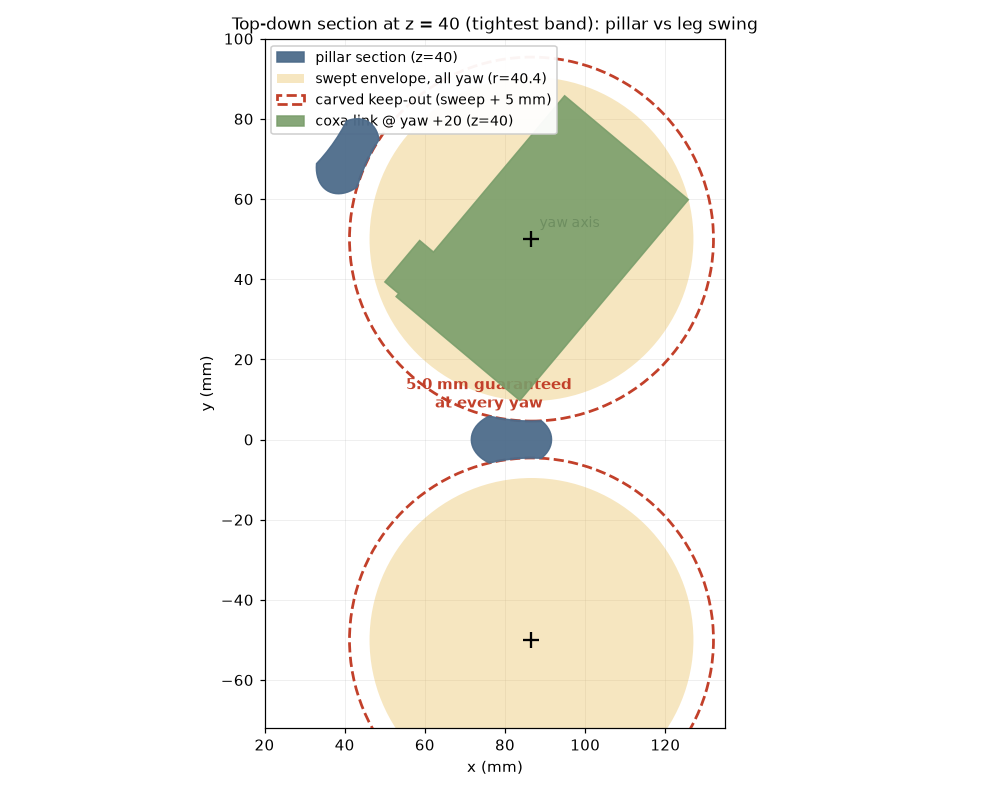
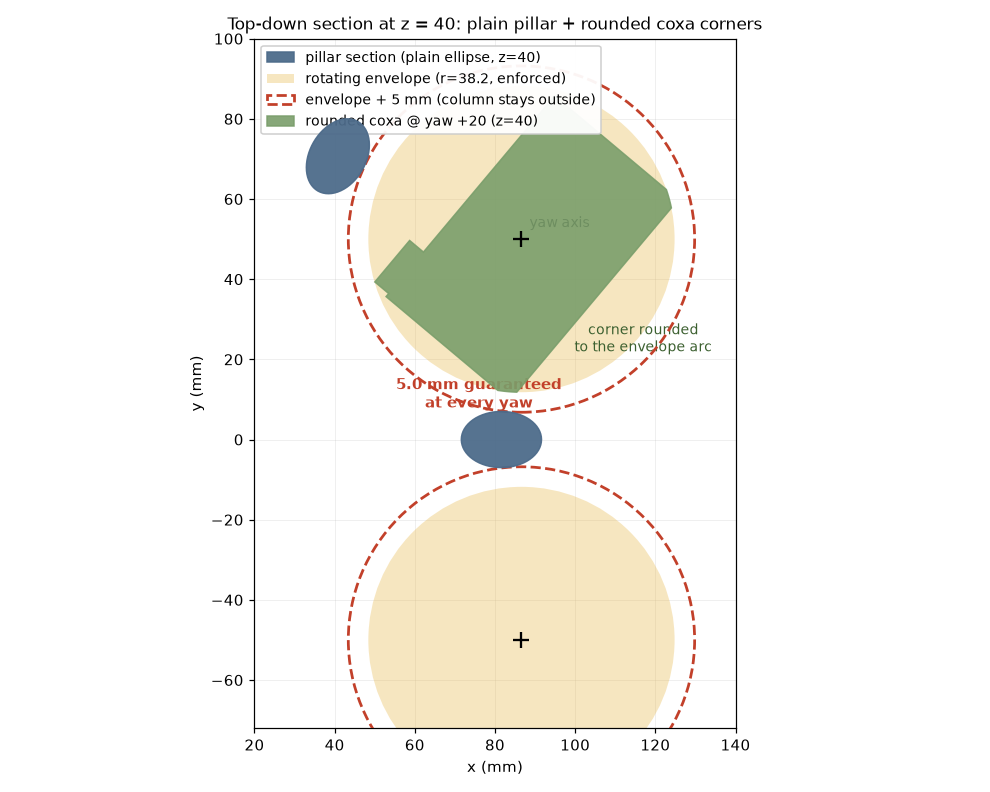
concepts/rigid_hip: round the coxa cradle corners instead of scalloping the pillar
User preference: keep the rim column a plain solid ellipse and put the
clearance in the rotating parts. coxa_link_rounded trims the cradle
corners to a 38.2 mm arc about the yaw axis (max 2.16 mm off two
vertical corner edges; hub/horn/pilots untouched), which alone
guarantees >= 5 mm column clearance at every yaw (measured 5.03,
envelope + distance asserted on rebuild). The coxa becomes the one
production part this variant reprints (x6); scallop constants and
cuts removed.

diff --git a/hexapod_walker/prototype_sts3215/concepts/rigid_hip/make_rigid_hip_variant.py b/hexapod_walker/prototype_sts3215/concepts/rigid_hip/make_rigid_hip_variant.py
@@ -22,10 +22,11 @@ pair.  This variant closes the loop from the TOP:
     pressed on once and never removed; all service unbolts the cap from
     the coxa cradle (both bolts reachable with the plate on) and lifts
     the plate + caps + bearings off as one rigid unit.
-  * ``corner_pillar`` (x6) -- solid elliptical printed columns at the
-    six corner azimuths (rho 81.6, between adjacent rings), with the
-    legs' swept keep-out volume carved out of their flanks (>= 5 mm
-    clearance at every yaw angle by construction), that tie the top
+  * ``corner_pillar`` (x6) -- plain solid elliptical printed columns
+    at the six corner azimuths (rho 81.6, between adjacent rings);
+    >= 5 mm leg clearance at every yaw angle is guaranteed by the
+    rotating parts' ROT_ENVELOPE_R trim (see ``coxa_link_rounded``),
+    not by shaping the column.  They tie the top
     frame to chassis_bottom at the RIM, where each hip moment's force
     couple actually wants to react (push at the bottom tower, pull at
     the top ring) and where torsional leverage is ~4x the old standoff
@@ -36,6 +37,10 @@ pair.  This variant closes the loop from the TOP:
     (drilled through chassis_bottom using the foot as the jig -- a
     bench drill mod, no reprint).  The four central 90 mm standoffs
     remain only as hatch/electronics anchors.
+  * ``coxa_link_rounded`` (x6) -- the production coxa with its
+    servo-cradle corners rounded to the 38.2 mm yaw envelope (max
+    2.16 mm off two vertical wall corners; all interfaces untouched).
+    The one production part this variant reprints.
   * ``centre_wago_block`` -- the pillars claim the corner Wago trays,
     so the power tree consolidates: 4x 5-port 221-415 (two per net,
     jumpered) in one printed press-fit block at the chassis centre,
@@ -169,22 +174,28 @@ PILLAR_OD = 20.0                          # column RADIAL outer diameter
 PILLAR_TAN_SCALE = 0.7                    # ELLIPTICAL section: tangential
                                           # half-axis 7 (a round Phi 20 was
                                           # a measured graze on the coxa
-                                          # sweep; the ellipse is step one,
-                                          # the SCALLOPS below are step two)
-# Swept-keep-out SCALLOPS (user, Aug 24: "worried these columns will
-# bang into the hip servo when it rotates"): measured over a full 360
-# revolution, the rotating assembly's worst reach from its yaw axis is
-# 40.4 mm (coxa cradle arm, z 30..45; the hip SERVO itself never gets
-# within 13.8 mm).  Rather than trust a thin static margin, the column
-# subtracts a vertical cylinder of radius sweep+5 around BOTH flanking
-# yaw axes across the z band where anything rotates -- so >= 5 mm
-# clearance at EVERY yaw angle is guaranteed by construction, and the
-# column keeps its full section everywhere else.  The column is SOLID
-# (no bore): simpler, stiffer at the scalloped waist, ~25 g each.
-PILLAR_SWEEP_R = 40.4                     # measured max rotating reach
-PILLAR_SWEEP_CL = 5.0                     # clearance carved beyond it
-PILLAR_SWEEP_Z = (24.0, 78.0)             # rotating parts live in z 25..76;
-                                          # band padded 1-2 mm each way
+                                          # sweep at 2.9 mm; slimming the
+                                          # tangential axis buys the margin)
+# ROUNDED-CORNER ENVELOPE (user, Aug 24: "round the corners of the
+# servo holder instead of making the pillar a weird shape").  The
+# scalloped column is gone; instead, everything that rotates with a
+# yaw joint is kept inside a 38.2 mm cylinder about its own axis, and
+# the column is a plain solid ellipse.  Axis-to-column-surface is
+# 43.24 mm (measured: 43.24 - 40.36 gave the old 2.88 graze), so a
+# <= 38.2 mm rotating envelope guarantees >= 5 mm clearance at EVERY
+# yaw angle -- same guarantee the scallops gave, now carried by the
+# rotating parts:
+#   * coxa_link_rounded -- the production coxa's servo-cradle corners
+#     reached 40.36 mm; they are rounded back to the envelope arc
+#     (max 2.16 mm off two vertical wall corners, 8 vertices; the
+#     cap-bolt bosses are untouched).  THE COXA IS NOT A STOCK PRINT
+#     in this variant (6 reprints) -- the price of the plain column.
+#   * hip_clamp_cap_rigid already fits (max reach 36.98) -- asserted.
+#   * hip servo: max reach 29.38, COTS, nothing to trim.
+ROT_ENVELOPE_R = 38.2                     # max rotating reach, enforced
+PILLAR_MIN_CL = 5.0                       # guaranteed clearance to column
+ROT_BAND_Z0 = 24.0                        # lowest z where anything rotates
+                                          # outside the (static) tower
 PILLAR_RHO = 81.6                         # centre radius at az 0/60/...:
                                           # midway between the lid-screw
                                           # pilot (76.2) and the dedicated
@@ -460,13 +471,11 @@ def make_chassis_top_rigid() -> trimesh.Trimesh:
 
 def make_corner_pillar() -> trimesh.Trimesh:
     """One rim pillar, modeled in WORLD position at az 0 (instances are
-    placed by 60-deg rotations).  A SOLID elliptical column from the
-    bottom sheet's top face up to PILLAR_TOP_GAP below the frame, with:
+    placed by 60-deg rotations).  A PLAIN SOLID elliptical column from
+    the bottom sheet's top face up to PILLAR_TOP_GAP below the frame
+    (leg clearance is guaranteed by the rotating parts' ROT_ENVELOPE_R
+    trim, not by shaping the column), with:
 
-      * swept-keep-out SCALLOPS: the volume within PILLAR_SWEEP_R +
-        PILLAR_SWEEP_CL of both flanking yaw axes is subtracted over
-        the rotating z band, so >= 5 mm leg clearance holds at every
-        yaw angle by construction;
       * two Phi 2.5 self-tap pilots in the top face (insert-ready):
         the shared lid screw (rho 76.2) and the dedicated frame screw
         (rho 87);
@@ -500,16 +509,7 @@ def make_corner_pillar() -> trimesh.Trimesh:
     tab.apply_translation([PILLAR_RHO - PILLAR_OD / 2.0 - 2.0, 0.0,
                            PILLAR_BOT_Z + PILLAR_FOOT_T / 2.0])
     body = _union([col, bar, tab])
-    ax = APOTHEM * np.cos(np.pi / 6.0)
-    ay = APOTHEM * np.sin(np.pi / 6.0)
     cuts = [
-        # swept-keep-out scallops around both flanking yaw axes
-        _cyl_z(PILLAR_SWEEP_R + PILLAR_SWEEP_CL,
-               PILLAR_SWEEP_Z[0], PILLAR_SWEEP_Z[1],
-               x=ax, y=+ay, sections=128),
-        _cyl_z(PILLAR_SWEEP_R + PILLAR_SWEEP_CL,
-               PILLAR_SWEEP_Z[0], PILLAR_SWEEP_Z[1],
-               x=ax, y=-ay, sections=128),
         # top pilots: shared lid screw + dedicated frame screw
         _cyl_z(PILOT_OD / 2.0, top_z - 8.0, top_z + 1.0,
                x=HATCH_SCREW_RHO, y=0.0, sections=32),
@@ -526,6 +526,19 @@ def make_corner_pillar() -> trimesh.Trimesh:
                            x=PILLAR_BAR_HOLE_X,
                            y=sy * PILLAR_BAR_HOLE_Y, sections=32))
     return _diff(body, cuts)
+
+
+def make_coxa_link_rounded() -> trimesh.Trimesh:
+    """The production coxa with its servo-cradle corners rounded to the
+    ROT_ENVELOPE_R arc about its own yaw axis (the coxa local z axis
+    through the origin).  Removes at most 2.16 mm from two vertical
+    wall corners that used to reach 40.36 mm; every interface (hub,
+    horn drive, cradle pilots, cap seat) is untouched.  This makes the
+    coxa a VARIANT print (6x) -- the trade for a plain rim column."""
+    coxa = hp.make_coxa_link_part()
+    z0, z1 = coxa.bounds[0][2] - 1.0, coxa.bounds[1][2] + 1.0
+    keep = _cyl_z(ROT_ENVELOPE_R, z0, z1, sections=256)
+    return trimesh.boolean.intersection([coxa, keep], engine="manifold")
 
 
 def _pillar_meshes(meshes: dict) -> list[trimesh.Trimesh]:
@@ -661,9 +674,11 @@ MESH_FILES = {
     "top_hatch_rigid": (make_top_hatch_rigid, "top_hatch_rigid.stl"),
     "corner_pillar": (make_corner_pillar, "corner_pillar.stl"),
     "centre_wago_block": (make_centre_wago_block, "centre_wago_block.stl"),
+    # VARIANT reprint of a production part: cradle corners rounded to
+    # the 38.2 mm yaw envelope so the plain rim columns clear by 5 mm.
+    "coxa_link": (make_coxa_link_rounded, "coxa_link_rounded.stl"),
     # Unchanged production prints (print from the MAIN stl_prototype/).
     "chassis_bottom": (hp.make_chassis_bottom, "chassis_bottom.stl"),
-    "coxa_link": (hp.make_coxa_link_part, "coxa_link.stl"),
     "femur_link": (hp.make_femur_link_part, "femur_link.stl"),
     "tibia_knee_yoke": (hp.make_tibia_knee_yoke, "tibia_knee_yoke.stl"),
     "foot_boot": (hp.make_foot_boot, "foot_boot.stl"),
@@ -686,7 +701,7 @@ MESH_FILES = {
 }
 ALWAYS_REBUILD = {"hip_clamp_cap_rigid", "chassis_top_rigid",
                   "top_hatch_rigid", "corner_pillar", "centre_wago_block",
-                  "bearing_6805"}
+                  "coxa_link", "bearing_6805"}
 
 
 def build_meshes() -> dict[str, trimesh.Trimesh]:
@@ -854,9 +869,21 @@ def check_pillars(meshes: dict[str, trimesh.Trimesh]) -> None:
                 v = _inter_vol(placed[j], m)
                 assert v < 1e-6, \
                     f"yaw {yaw:+g}: {key} hits pillar az{j * 60} ({v:.2f} mm3)"
-    # QUANTITATIVE margin (user, Aug 24): not just non-colliding --
-    # assert the measured distance stays >= the carved clearance minus
-    # a small numerical allowance, across the operating range.
+    # ROTATING ENVELOPE (user, Aug 24: round the parts, not the pillar)
+    # -- every rotating part must fit the 38.2 mm cylinder about its
+    # own yaw axis; that alone guarantees the column clearance.
+    r_coxa = float(np.linalg.norm(
+        meshes["coxa_link"].vertices[:, :2], axis=1).max())
+    assert r_coxa <= ROT_ENVELOPE_R + 0.05, \
+        f"rounded coxa reaches {r_coxa:.2f} > envelope {ROT_ENVELOPE_R}"
+    vc = meshes["hip_clamp_cap_rigid"].vertices
+    r_cap = float(np.hypot(vc[:, 0], vc[:, 2] - AXIS_Z).max())
+    assert r_cap <= ROT_ENVELOPE_R + 0.05, \
+        f"hip cap reaches {r_cap:.2f} > envelope {ROT_ENVELOPE_R}"
+
+    # QUANTITATIVE margin: not just non-colliding -- assert the
+    # measured distance stays >= the guaranteed clearance minus a
+    # small numerical allowance, across the operating range.
     from trimesh.proximity import signed_distance
     min_marg = 1e9
     for yaw in (-45.0, -20.0, 0.0, 20.0, 45.0):
@@ -870,10 +897,10 @@ def check_pillars(meshes: dict[str, trimesh.Trimesh]) -> None:
                     continue
                 d = float(-signed_distance(placed[j], m.vertices).max())
                 min_marg = min(min_marg, d)
-    assert min_marg >= PILLAR_SWEEP_CL - 0.5, \
+    assert min_marg >= PILLAR_MIN_CL - 0.25, \
         f"pillar clearance margin dropped to {min_marg:.2f} mm"
-    print(f"  pillars: measured leg clearance >= {min_marg:.2f} mm "
-          f"(carved keep-out: sweep {PILLAR_SWEEP_R:g} + {PILLAR_SWEEP_CL:g})")
+    print(f"  pillars: coxa/cap envelope {r_coxa:.2f}/{r_cap:.2f} <= "
+          f"{ROT_ENVELOPE_R:g}; measured leg clearance >= {min_marg:.2f} mm")
 
     # informational: full hand-spin (servo out) contact scan
     first_contact = None
@@ -944,7 +971,7 @@ def check_wago_block(meshes: dict[str, trimesh.Trimesh]) -> None:
     assert corner_r <= HATCH_OPEN_APO - 3.0, \
         f"block corner r {corner_r:.1f} not under the hatch opening"
     lever_top = PILLAR_BOT_Z + WBLK_FLOOR_T + hp.WAGO5_H + 10.0
-    assert lever_top < PILLAR_SWEEP_Z[0], \
+    assert lever_top < ROT_BAND_Z0, \
         f"open lever top z {lever_top:.1f} enters the rotating band"
 
     # seated nuts: the 0.15 press wedge is the ONLY block contact
@@ -957,7 +984,7 @@ def check_wago_block(meshes: dict[str, trimesh.Trimesh]) -> None:
     print(f"  wago block: {abs(blk.volume) / 1000.0:.1f} cm3, "
           f"4 bays press-fit, corner r {corner_r:.1f} "
           f"under the {HATCH_OPEN_APO:g} mm opening, "
-          f"lever top {lever_top:.1f} < band {PILLAR_SWEEP_Z[0]:g}")
+          f"lever top {lever_top:.1f} < band {ROT_BAND_Z0:g}")
 
 
 def check_hatch(meshes: dict[str, trimesh.Trimesh]) -> None:
@@ -1112,7 +1139,7 @@ COLORS = {
     "centre_wago_block": "#4a90a4", "wago5": "#d9822b",
     "bearing_6805": "#303030",
     "yaw_bearing_upper": "#3a3a3a", "servo_body": "#6b6b6b",
-    "chassis_bottom": "#8a8f98", "coxa_link": "#9aa0a6",
+    "chassis_bottom": "#8a8f98", "coxa_link": "#7ba1d1",
     "femur_link": "#9aa0a6", "tibia_knee_yoke": "#9aa0a6",
     "knee_clamp_cap": "#9aa0a6", "yaw_bearing_cap": "#9aa0a6",
     "yaw_servo_retainer": "#9aa0a6", "foot_boot": "#5a5f66",
@@ -1168,7 +1195,8 @@ def build_scene(meshes, femur_up_limit: float) -> dict:
         knee_pt = (T["femur"] @ np.array([hp.FEMUR_LENGTH, 0.0, 0.0, 1.0]))[:3]
 
         yaw_ids = [
-            inst("coxa_link", f"L{i} coxa_link", T["coxa"], leg=i),
+            inst("coxa_link", f"L{i} coxa_link ROUNDED (NEW)",
+                 T["coxa"], leg=i),
             inst("yaw_bearing_upper", f"L{i} yaw bearing (lower slot EMPTY)",
                  T["coxa"], leg=i),
             inst("yaw_bearing_cap", f"L{i} yaw bearing cap", T["coxa"], leg=i),

diff --git a/hexapod_walker/prototype_sts3215/concepts/rigid_hip/README.md b/hexapod_walker/prototype_sts3215/concepts/rigid_hip/README.md
@@ -23,11 +23,15 @@ servo — is a cantilever.  This variant closes the structure from the top:
   ±24.75) and the Φ40 centre hole, all of which fell inside the
   opening.  The electronics deck mounts on the hatch, so the lid lifts
   out WITH the electronics (tethered by wiring) for bench work.
-* **`corner_pillar`** (print 6): solid scalloped columns at the six corner
-  azimuths tying the frame to chassis_bottom at the RIM — the actual
-  top↔bottom structural connection (see below).  Each stands in a
-  vacated corner Wago tray and doubles as the boss its hatch perimeter
-  screw threads into.
+* **`corner_pillar`** (print 6): plain solid elliptical columns at the
+  six corner azimuths tying the frame to chassis_bottom at the RIM —
+  the actual top↔bottom structural connection (see below).  Each
+  stands in a vacated corner Wago tray and doubles as the boss its
+  hatch perimeter screw threads into.
+* **`coxa_link_rounded`** (print 6): the production coxa with its
+  servo-cradle corners rounded to the 38.2 mm yaw envelope so the
+  plain columns clear the swinging leg by 5 mm at every angle.  The
+  one production part this variant reprints.
 * **`centre_wago_block`** (print 1): the pillars claim the corner Wago
   trays, so the power tree consolidates — 4× 5-port 221-415 (two per
   net, jumpered) in one press-fit block at the chassis centre under
@@ -99,17 +103,23 @@ hatch/electronics anchors only.  The tie is six printed pillars at the
 corner azimuths (rho 81.6, between adjacent legs — the only rim
 territory outside every swing envelope):
 
-* **Column**: solid, elliptical section 20 mm radial × 14 mm
-  tangential, z 2 → 87.95, ~23 g each in PETG.  **The legs' swept
-  keep-out volume is carved out of its flanks**: a vertical cylinder
-  of radius sweep + 5 mm (measured worst rotating reach = 40.4 mm,
-  the coxa cradle arm; the hip servo itself never gets within
-  13.8 mm) is subtracted around both flanking yaw axes over the
-  rotating z band (24–78).  So **≥ 5 mm clearance holds at every yaw
-  angle by construction** — measured 5.03 mm at build time, asserted
-  on every rebuild, and verified clear for a full 360° hand-spin of a
-  disassembled leg.  Everywhere outside that band the column keeps
-  its full section.
+* **Column**: plain solid ellipse, 20 mm radial × 14 mm tangential,
+  z 2 → 87.95, ~26 g each in PETG.  Clearance to the swinging legs is
+  **not** the column's problem: every part that rotates with a yaw
+  joint is kept inside a **38.2 mm envelope** about its own axis (the
+  coxa's cradle corners are rounded to that arc — see
+  `coxa_link_rounded` below; the hip cap already fits at 37.0, the
+  servo at 29.4).  The column surface sits 43.2 mm from each
+  neighbouring axis, so **≥ 5 mm clearance holds at every yaw angle
+  by construction** — measured 5.03 mm at build time, envelope and
+  distance both asserted on every rebuild, verified clear for a full
+  360° hand-spin of a disassembled leg.
+* **`coxa_link_rounded`** (print 6): the production coxa with its two
+  servo-cradle corner edges rounded to the 38.2 mm arc — at most
+  2.16 mm comes off (they used to reach 40.36 mm).  Hub, horn drive,
+  cradle pilots and cap seat are untouched, but note this makes the
+  coxa a **variant reprint**, no longer the stock print — the price
+  of a plain column instead of a scalloped one.
 * **Top**: stops 0.1 mm short of the frame sheet (the six bearing
   RACES define the plate plane — the screws pull the sheet down onto
   the pillar; sand/shim a proud pillar, never let it rock).  Two Φ2.5
@@ -212,13 +222,18 @@ variation only moves parts that stay outboard/below the plate.
 * **−4 Wago 221-415**: the 6 corner + 2 trunk nuts become 4 in
   `centre_wago_block` (print 1, ~11 g, VHB pad; leg power pigtails
   ~60–70 mm longer — wiring change only)
+* **6× `coxa_link_rounded` reprints** — the stock coxa no longer fits
+  the yaw envelope the plain columns rely on (same filament as 6
+  production coxas; the old prints become spares)
 * recommended: 12× M3 heat-set inserts (McMaster 94459A130) for the hip
   cap pilots, +12 for the pillar-top pilots — see "Disassembly & service"
 
 ## Assembly order
 
-1. Build the robot as production but install only ONE yaw bearing per
-   leg (the upper/located one; leave the lower pocket empty), and use
+1. Build the robot as production but with three swaps: install only
+   ONE yaw bearing per leg (the upper/located one; leave the lower
+   pocket empty), use `coxa_link_rounded` in place of the stock coxa
+   (identical everywhere except the rounded cradle corners), and use
    `hip_clamp_cap_rigid` in place of the stock hip cap — same 2× M3
    into the same cradle pilots.
 2. Re-splice power at the centre: VHB `centre_wago_block` to the floor
@@ -264,7 +279,7 @@ line-of-sight for a Φ6.5 driver shaft down to the cap counterbore.
 * **Repeated-service threads**: the cap bolts are now every-service
   fasteners, so per the repo's insert rule, drill the two cradle
   pilots Φ4.0 × 6 deep and fit M3 heat-set inserts (94459A130) — a
-  bench mod on the existing coxa_link print, no reprint.
+  bench mod on the `coxa_link_rounded` print.
 * **Last resort only**: the pocket fit is the bench-proven "firm
   finger-press" class (never separated in normal service), and the
   pedestal keeps two puller notches exposing the inner race underside
@@ -293,8 +308,11 @@ serviceable option.
   blind bores (clean press walls); the Φ34→37.15 shoulder is a short
   internal bridge, same as the bottom tower prints.
 * `top_hatch_rigid`: lid face down, lip up — flat print, no supports.
-* `corner_pillar`: foot down, column up — solid, no supports (the
-  scallops are gentle vertical concave faces, nothing overhangs).
+* `corner_pillar`: foot down, column up — plain solid column, no
+  supports.
+* `coxa_link_rounded`: print exactly like the production coxa (same
+  orientation and supports); the rounded corners change nothing about
+  printability.
 * `centre_wago_block`: floor down — flat print, no supports; walls are
   plain vertical extrusions like the production trays.
 * `hip_clamp_cap_rigid`: rest on the tongue face (outer face + boss
@@ -302,9 +320,10 @@ serviceable option.
   the flange wings and hooks.  Printing in the stock flat orientation
   puts support scars on the press band — coupon-check the fit if you
   do that.
-* Reused parts in `stl/` (coxa_link, femur_link, …) are for the viewer;
-  print those from the main `stl_prototype/`.  Only the three parts
-  above are new.  `*_DO_NOT_PRINT.stl` are COTS visuals.
+* Reused parts in `stl/` (femur_link, tibia_knee_yoke, …) are for the
+  viewer; print those from the main `stl_prototype/`.  The variant
+  prints are the parts above (including `coxa_link_rounded.stl`, which
+  REPLACES the stock coxa).  `*_DO_NOT_PRINT.stl` are COTS visuals.
 
 ## Build & view
 
